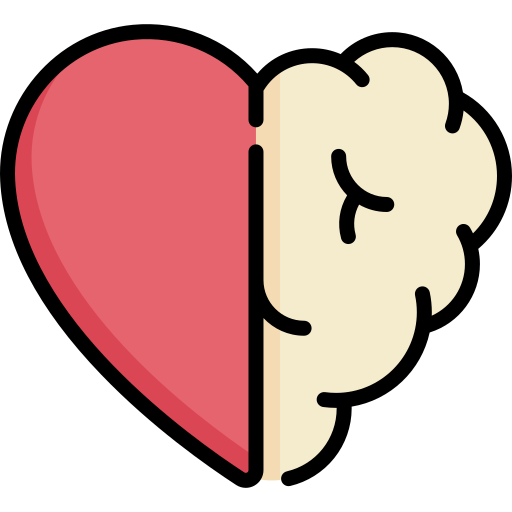
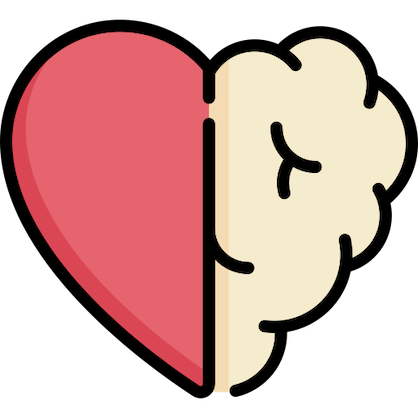
Resizing some images

diff --git a/assets/scss/main.scss b/assets/scss/main.scss
@@ -3,7 +3,10 @@
 
 // Bootstrap and BootstrapVue SCSS files
 @import '~bootstrap/scss/bootstrap.scss';
-@import '~bootstrap-vue/src/index.scss';
+@import '~bootstrap-vue/src/variables.scss';
+@import '~bootstrap-vue/src/utilities.scss';
+@import '~bootstrap-vue/src/custom-controls.scss';
+@import '~bootstrap-vue/src/components/index.scss';
 
 // General style overrides and custom classes
 @import 'theme';

diff --git a/nuxt.config.js b/nuxt.config.js
@@ -6,7 +6,7 @@ export default {
 
   // Target: https://go.nuxtjs.dev/config-target
   // target: 'server',
-  target: 'static',
+  target: 'server',
 
   // Global page headers: https://go.nuxtjs.dev/config-head
   head: {
